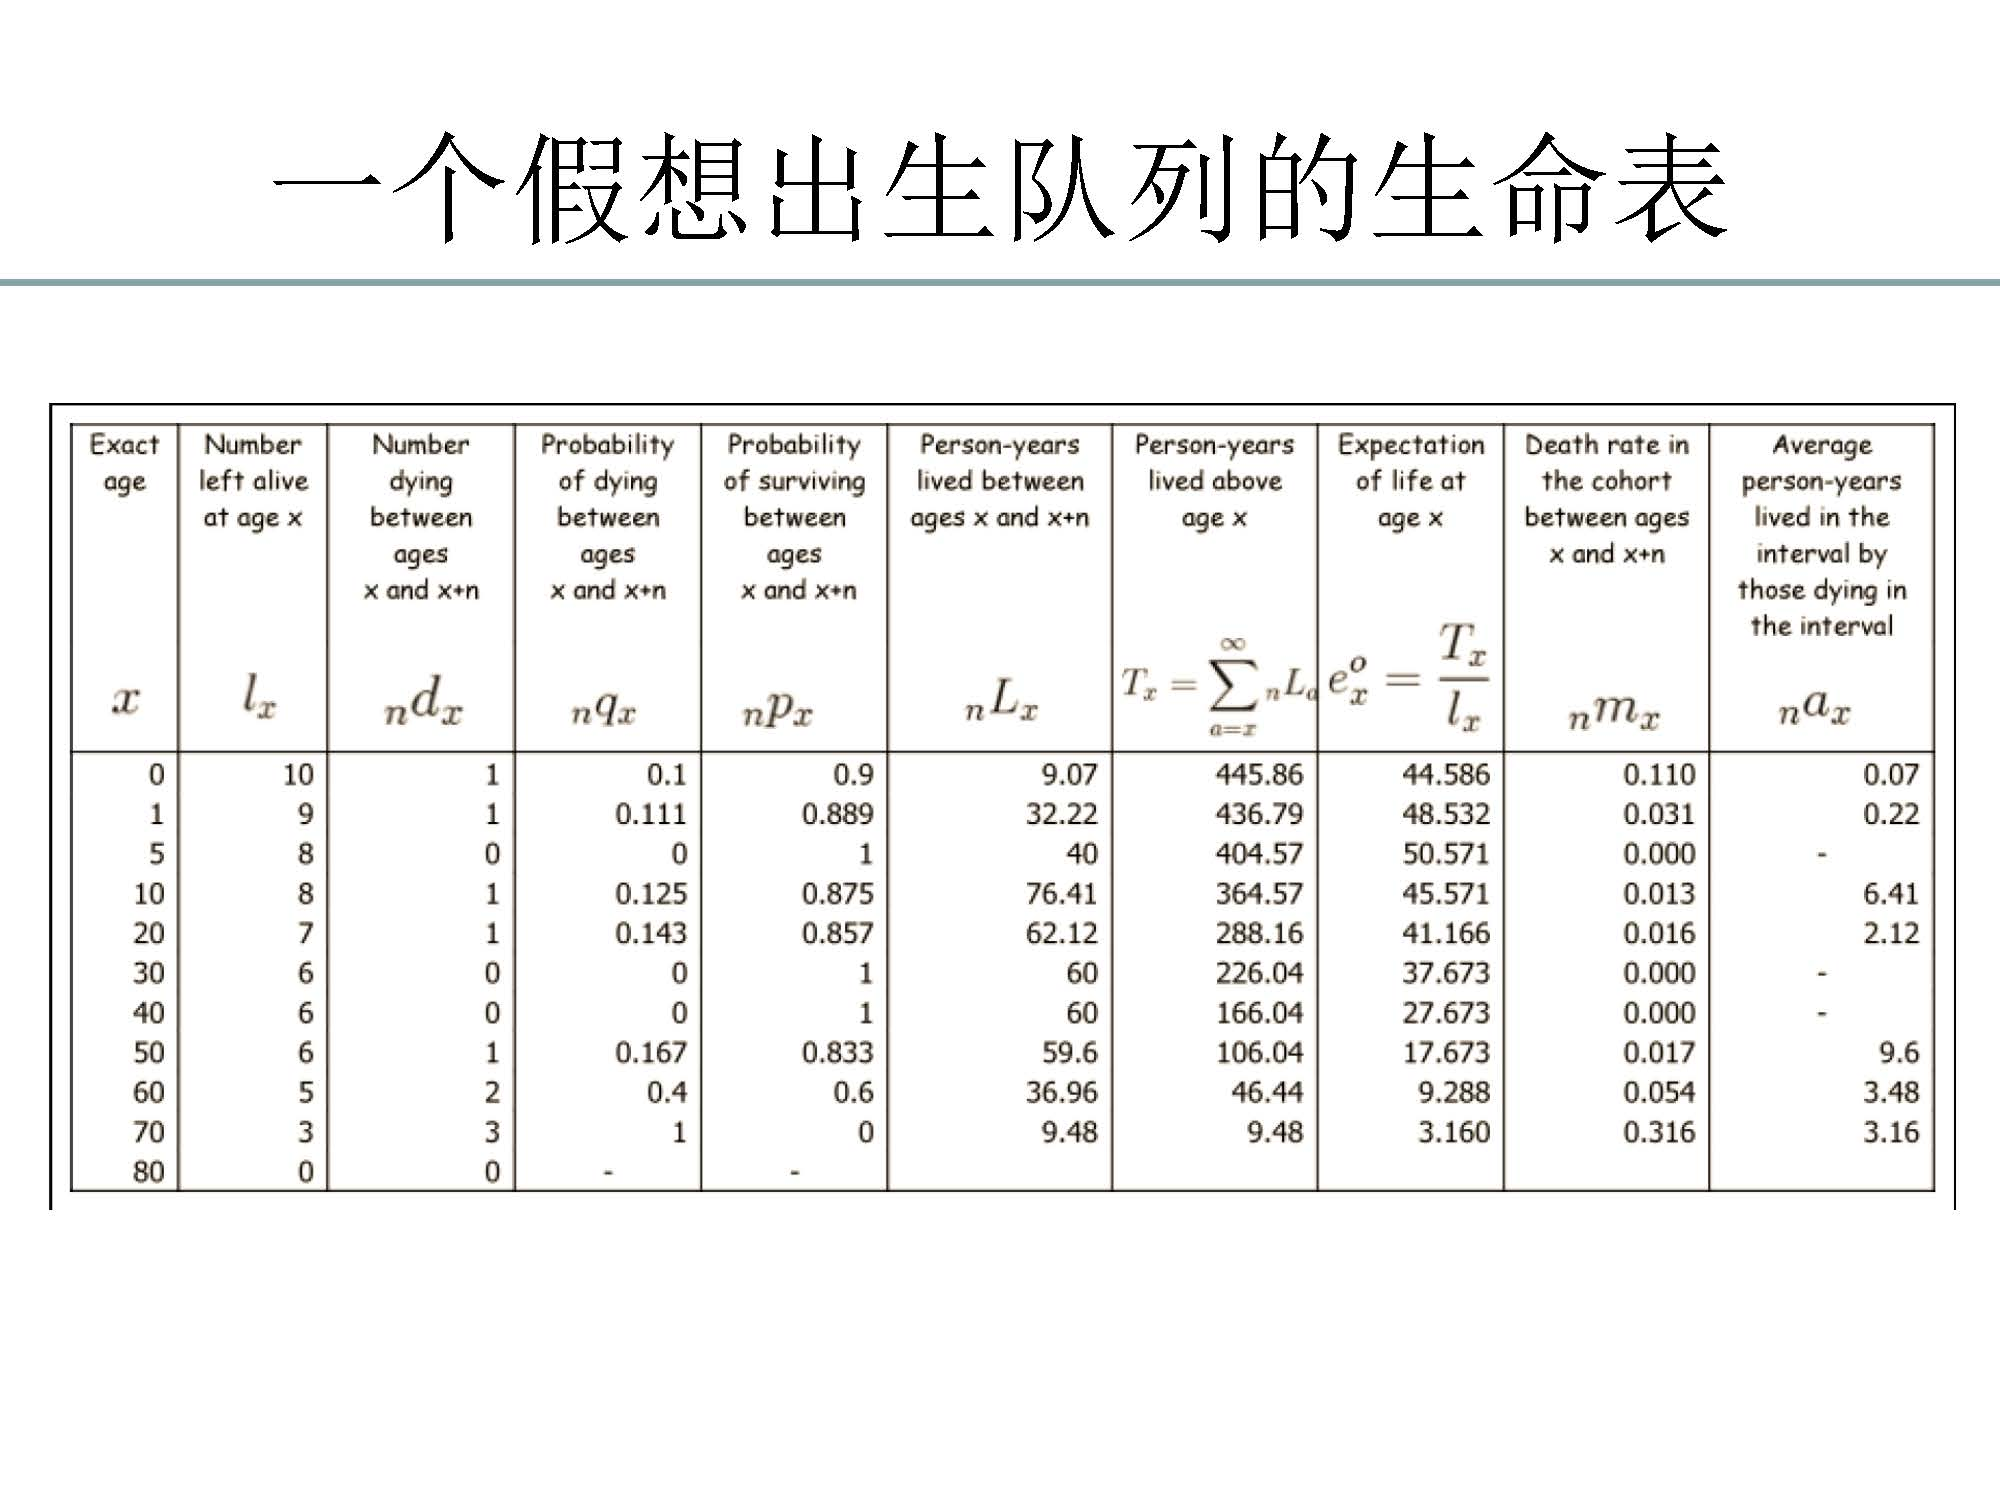
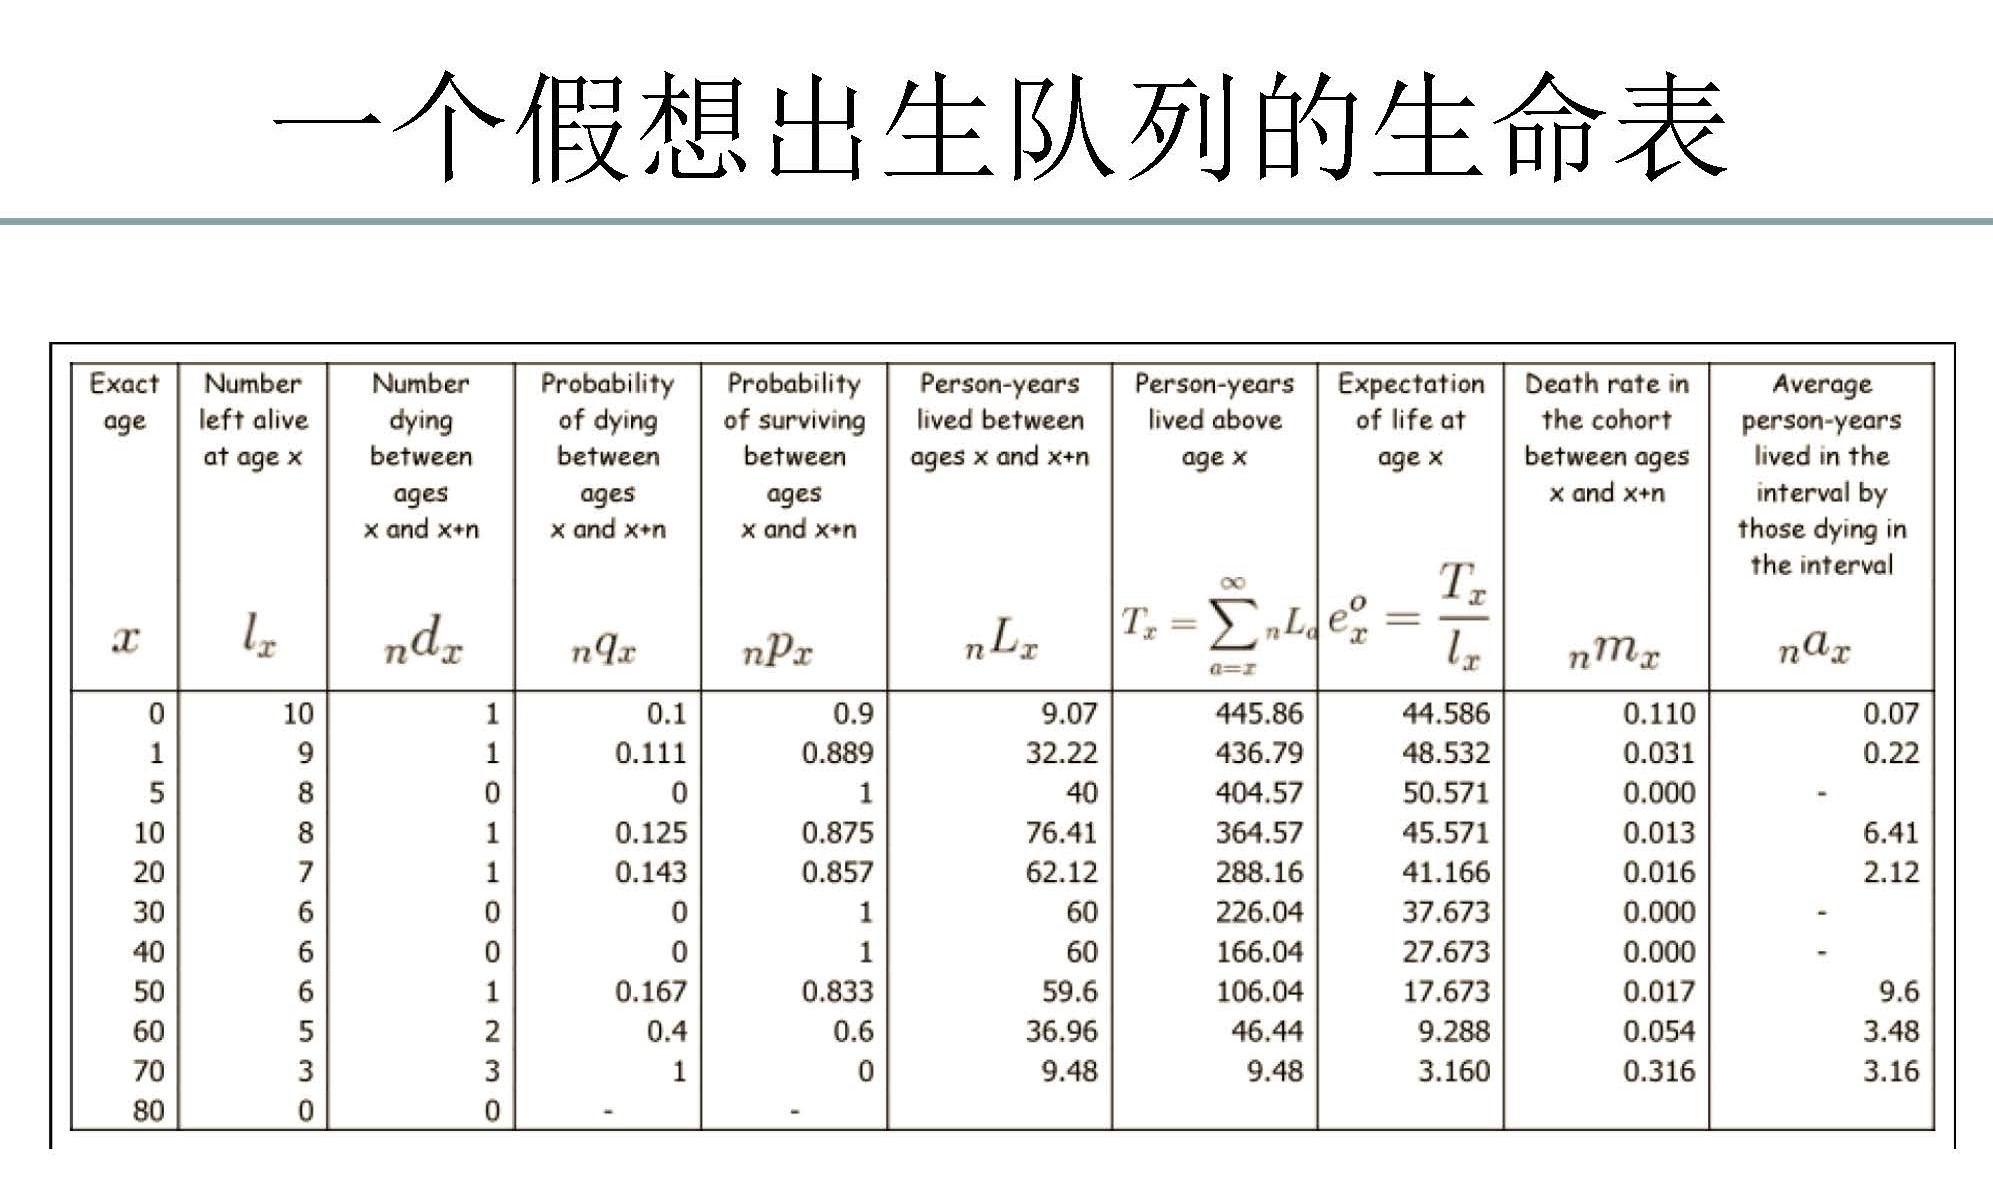
update

Changed region(s): [[0.0311, 0.2768, 0.9955, 0.9534], [0.0, 0.0615, 1.0, 0.2153]]

diff --git a/public/2019/05/23/survival/index.html b/public/2019/05/23/survival/index.html
@@ -148,18 +148,11 @@
 <code>cen_r</code>:事件是否发生,被收养成功</li>
 </ul>
 </div>
-<div class="section level2">
-<h2>生命表</h2>
-<div class="figure" style="text-align: center">
-<img src="../../../../img/life.jpg" alt=" " width="100%" />
-<p class="caption">
-</p>
-</div>
-</div>
 <div id="kaplanmeier-estimator-" class="section level2">
 <h2>Kaplan–Meier estimator | 卡普兰迈耶法</h2>
 <p>又称乘积极限法(Product-Limit Method)</p>
 <p><span class="math display">\[{\rm{\hat S}}(t) = \prod\limits_{{t_i} \le t} {(1 - {{\hat q}_i})}  = \prod\limits_{{t_i} \le t} {(1 - {{{d_i}} \over {{n_i}}})}\]</span></p>
+<p><span class="math inline">\(n_i\)</span>是在时间<span class="math inline">\(t_i\)</span>中的历险人数，<span class="math inline">\(d_i\)</span>是事件发生数。</p>
 <pre class="r"><code>&gt; table(cwg$event)</code></pre>
 <pre><code>
   0   1 
@@ -187,6 +180,8 @@
 
       n  events  median 0.95LCL 0.95UCL 
    1278     300      NA      NA      NA </code></pre>
+<pre class="r"><code>&gt; knitr::include_graphics(&quot;/img/life.jpg&quot;)</code></pre>
+<p><img src="../../../../img/life.jpg" width="100%" style="display: block; margin: auto;" /></p>
 <pre class="r"><code>&gt; summary(km_fit, times = c(0.2*(1:25))) #这个东西和生命表等价</code></pre>
 <pre><code>Call: survfit(formula = km ~ 1, data = cwg)
 
@@ -219,14 +214,17 @@
 <pre class="r"><code>&gt; knitr::include_graphics(&quot;/img/life2.jpg&quot;)</code></pre>
 <p><img src="../../../../img/life2.jpg" width="100%" style="display: block; margin: auto;" /></p>
 <pre class="r"><code>&gt; autoplot(km_fit) #ggplot2风格KM图</code></pre>
-<p><img src="../../../../post/survival_files/figure-html/b-2.png" width="100%" style="display: block; margin: auto;" /></p>
+<p><img src="../../../../post/survival_files/figure-html/b-3.png" width="100%" style="display: block; margin: auto;" /></p>
 <pre class="r"><code>&gt; km_trt_fit &lt;- survfit(km ~ female, data=cwg)#分性别KM估计
 &gt; autoplot(km_trt_fit) #图中+号可能是&quot;打结&quot; ties?</code></pre>
-<p><img src="../../../../post/survival_files/figure-html/b-3.png" width="100%" style="display: block; margin: auto;" /></p>
+<p><img src="../../../../post/survival_files/figure-html/b-4.png" width="100%" style="display: block; margin: auto;" /></p>
 </div>
 <div id="cox" class="section level2">
 <h2>Cox比例风险模型</h2>
 <p><span class="math display">\[\ln {h_i}(t) = \ln {h_0}(t) + {\beta _1}{X_1} + {\beta _2}{X_2} +  \cdot  \cdot  \cdot  + {\beta _p}{X_p}\]</span></p>
+<ul>
+<li><span class="math inline">\({h_i}(t)\)</span>是个体i在时间t时的风险值。<span class="math inline">\({h_0}(t)\)</span>是所有个体在时间t时的非参数风险函数值。<span class="math inline">\({\beta_p}{X_p}\)</span>是对个体i的解释变量和系数。</li>
+</ul>
 </div>
 
     </div>

diff --git a/content/post/survival.html b/content/post/survival.html
@@ -80,18 +80,11 @@ categories: R
 <code>cen_r</code>:事件是否发生,被收养成功</li>
 </ul>
 </div>
-<div class="section level2">
-<h2>生命表</h2>
-<div class="figure" style="text-align: center">
-<img src="/img/life.jpg" alt=" " width="100%" />
-<p class="caption">
-</p>
-</div>
-</div>
 <div id="kaplanmeier-estimator-" class="section level2">
 <h2>Kaplan–Meier estimator | 卡普兰迈耶法</h2>
 <p>又称乘积极限法(Product-Limit Method)</p>
 <p><span class="math display">\[{\rm{\hat S}}(t) = \prod\limits_{{t_i} \le t} {(1 - {{\hat q}_i})}  = \prod\limits_{{t_i} \le t} {(1 - {{{d_i}} \over {{n_i}}})}\]</span></p>
+<p><span class="math inline">\(n_i\)</span>是在时间<span class="math inline">\(t_i\)</span>中的历险人数，<span class="math inline">\(d_i\)</span>是事件发生数。</p>
 <pre class="r"><code>&gt; table(cwg$event)</code></pre>
 <pre><code>
   0   1 
@@ -119,6 +112,8 @@ categories: R
 
       n  events  median 0.95LCL 0.95UCL 
    1278     300      NA      NA      NA </code></pre>
+<pre class="r"><code>&gt; knitr::include_graphics(&quot;/img/life.jpg&quot;)</code></pre>
+<p><img src="/img/life.jpg" width="100%" style="display: block; margin: auto;" /></p>
 <pre class="r"><code>&gt; summary(km_fit, times = c(0.2*(1:25))) #这个东西和生命表等价</code></pre>
 <pre><code>Call: survfit(formula = km ~ 1, data = cwg)
 
@@ -151,12 +146,15 @@ categories: R
 <pre class="r"><code>&gt; knitr::include_graphics(&quot;/img/life2.jpg&quot;)</code></pre>
 <p><img src="/img/life2.jpg" width="100%" style="display: block; margin: auto;" /></p>
 <pre class="r"><code>&gt; autoplot(km_fit) #ggplot2风格KM图</code></pre>
-<p><img src="/post/survival_files/figure-html/b-2.png" width="100%" style="display: block; margin: auto;" /></p>
+<p><img src="/post/survival_files/figure-html/b-3.png" width="100%" style="display: block; margin: auto;" /></p>
 <pre class="r"><code>&gt; km_trt_fit &lt;- survfit(km ~ female, data=cwg)#分性别KM估计
 &gt; autoplot(km_trt_fit) #图中+号可能是&quot;打结&quot; ties?</code></pre>
-<p><img src="/post/survival_files/figure-html/b-3.png" width="100%" style="display: block; margin: auto;" /></p>
+<p><img src="/post/survival_files/figure-html/b-4.png" width="100%" style="display: block; margin: auto;" /></p>
 </div>
 <div id="cox" class="section level2">
 <h2>Cox比例风险模型</h2>
 <p><span class="math display">\[\ln {h_i}(t) = \ln {h_0}(t) + {\beta _1}{X_1} + {\beta _2}{X_2} +  \cdot  \cdot  \cdot  + {\beta _p}{X_p}\]</span></p>
+<ul>
+<li><span class="math inline">\({h_i}(t)\)</span>是个体i在时间t时的风险值。<span class="math inline">\({h_0}(t)\)</span>是所有个体在时间t时的非参数风险函数值。<span class="math inline">\({\beta_p}{X_p}\)</span>是对个体i的解释变量和系数。</li>
+</ul>
 </div>
